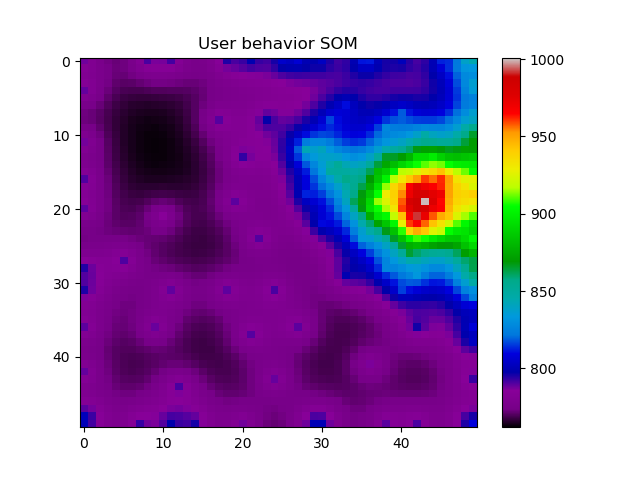
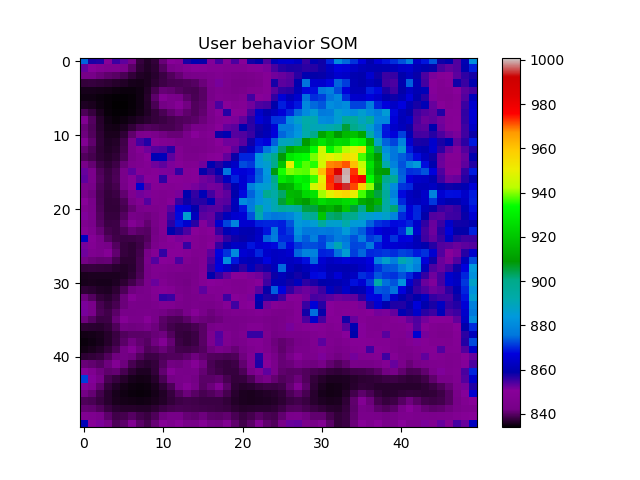
提交apriori和som的说明

diff --git a/作业2/src/som.py b/作业2/src/som.py
@@ -35,7 +35,7 @@ class SOM(object):
         output_size = output_width * output_length
 
         with tf.Graph().as_default():
-            self._weight_vectors = tf.Variable(tf.random_normal([output_size, input_dimension]))
+            self._weight_vectors = tf.Variable(tf.random_uniform([output_size, input_dimension], minval=0, maxval=1))
 
             self._location_vectors = tf.constant(np.array(list(self._neuron_locations(output_width, output_length))))
 
@@ -219,12 +219,12 @@ if __name__ == '__main__':
     opt_parser.add_option('-i', '--iteration_count',
                           dest='iteration_count',
                           help='iteration count',
-                          default=10,
+                          default=20,
                           type='int')
     opt_parser.add_option('-b', '--batch_size',
                           dest='batch_size',
                           help='batch size',
-                          default=128,
+                          default=512,
                           type='int')
     (options, args) = opt_parser.parse_args()
 

diff --git a/作业2/数据挖掘说明.md b/作业2/数据挖掘说明.md
@@ -1,0 +1,70 @@
+### Apriori
+
+1. 首先根据`user_log_format1.csv`构造交易列表，由于`user_log_format1.csv`数据量太大，这里只取了交易列表中的`16*1024`条进行下一步计算。
+
+2. 通过下面的伪代码进行计算
+
+   ```c++
+   L1 = {frequent items};
+   for (k = 1; Lk !=∅; k++) do begin
+   	Ck+1 = candidates generated from Lk;
+   	for each transaction t in database do
+   		increment the count of all candidates in Ck+1 that are contained in t
+   		Lk+1 = candidates in Ck+1 with min_support
+   	end
+   return ∪k Lk;
+   ```
+
+3. 具体实现过程中的一些优化：
+
+   1. 在计算频繁k项集时，可以将交易列表长度小于k的所有记录删除。因为长度小于k的记录一定不包含频繁k项集。
+   2. 可以将商品id转换为整型值，然后将每条交易记录的商品id排序，在计算频繁k项集的时候可以直接比较整型值而非字符串。
+
+
+
+### SOM
+
+这里用SOM网络进行基于用户行为的聚类。SOM全称：自组织特征映射（Self Organizing feature Map），它可以保留在高维度空间下簇之间的拓扑关系并将这种拓扑关系映射至低维度（通常是一维或者二维），它是一种非监督性的竞争型神经网络。（这里可以再找一点点资料介绍一下，[参考](http://blog.csdn.net/xbinworld/article/details/50818803)，不过最好能找到wikipedia或者原论文）。
+
+1. 首先根据`user_log_format1.csv`构造用户行为。这个表中的`action_type`字段记录了用户对商品的行为：
+
+   ```
+   0 - 用户点击该商品
+   1 - 用户将该商品加入了购物车
+   2 - 用户购买了该商品
+   3 - 用户将该商品加入喜欢列表
+   ```
+
+   可以将这个字段下的记录当做用户对该商品的喜好程度的分值。在这里，将所有的用户行为自增1，并将用户对该商品无上述行为标记为0，即
+
+   ```
+   0 - 用户对该商品无操作
+   1 - 用户点击该商品
+   2 - 用户将该商品加入了购物车
+   3 - 用户购买了该商品
+   4 - 用户将该商品加入喜欢列表
+   ```
+
+   以此构造一个|U|\*|I|稀疏矩阵M，其中U代表用户集合，I代表商品集合。M\_{a,\*}代表第a个用户对所有商品的行为，M\_{\*,b}代表所有用户对第b个商品的行为，M\_{a,b}代表第a个用户对第b个商品的行为，取值为0-4。
+
+   由于计算量大，这里只取512个用户进行聚类，即|U|=512。
+
+2. 确定输出的维度、粒度、初始学习速率η和初始学习半径r，这里取输出维度为二维，粒度为50\*50。这里的50\*50指的是SOM输出层有2500个神经元，最后将输出一张50*50的热度图，表示用户的聚类拓扑关系热度图。
+
+3. 随机生成一个2500\*|I|的权重矩阵，代表每个输出神经元对应的权重向量，类似于一个用户的行为向量。
+
+4. 当输入一条记录时，使用距离计算公式（欧氏距离或者余弦距离等）计算与该记录距离最“近”的获胜神经元，以获胜神经元为中心，学习半径r内的所有神经元作为优胜邻域N_{j∗}(t)。对优胜邻域内的所有神经元使用以下公式调整权重
+   $$
+   w_{i,j}(t+1)=w_{i,j}(t)+η(t,N)[x−w_{i,j}(t)]
+   $$
+   其中每次迭代需要使用以下公式计算当次学习速率
+   $$
+   η(t,N)=η(t)e^{−N}
+   $$
+   式中，η(t,N)是训练时间t和优胜邻域内第j个神经元与获胜神经元之间的拓扑距离N的函数，其中η(t)可采用单调递减函数，即
+   $$
+   η(t)=η_0*(1-\frac{t}{total\_iter\_number})
+   $$
+   距离函数与学习半径有关，而学习半径也将采用单调递减函数。
+
+5. 最终以热力图的方式展现聚类拓扑结构。
